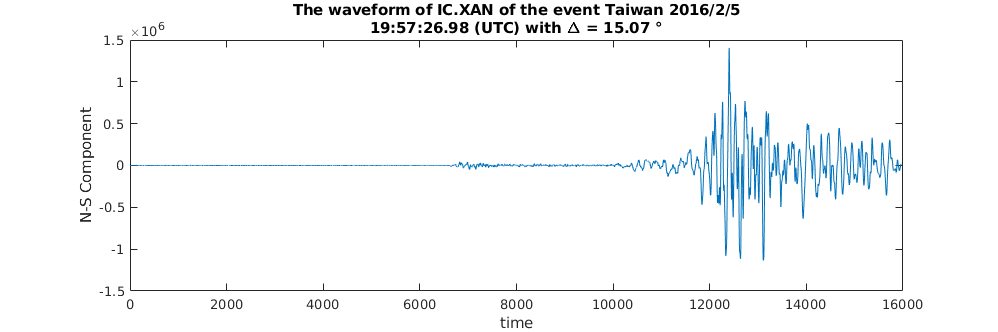
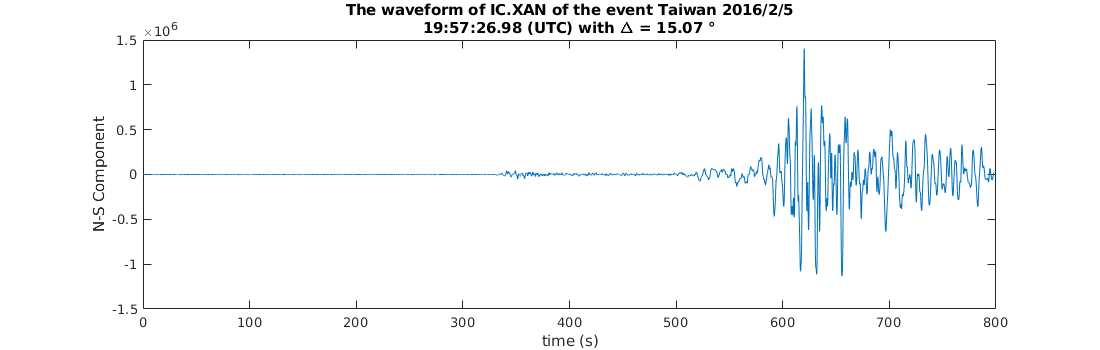
Add open check; Update example figure

diff --git a/ReadSAC.m b/ReadSAC.m
@@ -6,7 +6,10 @@ function [sacheader, wavedata] = ReadSAC(filename)
 % filename: a string, the SAC file name.
 
 %% Read the header part of the file
-fid = fopen(filename);
+fid = fopen(filename, 'r');
+if(fid < 0)
+  error(['Can''t open ', filename, ': maybe no such a file.']);
+end
 
 FType = fread(fid,70, 'float');
 NType = fread(fid,15, 'int');
@@ -149,7 +152,7 @@ fclose(fid);
 %% Plot the waveform
 if(1)
     figure; plot(time, wavedata);
-    xlabel('time'); ylabel(cmpname);
+    xlabel('time (s)'); ylabel(cmpname);
     title({['The waveform of ', sacheader.knetwk, '.', sacheader.kstnm, ' of the event ', ...
         sacheader.kevnm, sprintf(' %d/%d/%d', sacheader.nzyear, nzmonth, nzday)], ...
         [sprintf('%d:%d:%.2f (UTC)', nzohour, nzomin, nzosec), ' with \Delta = ', ...
